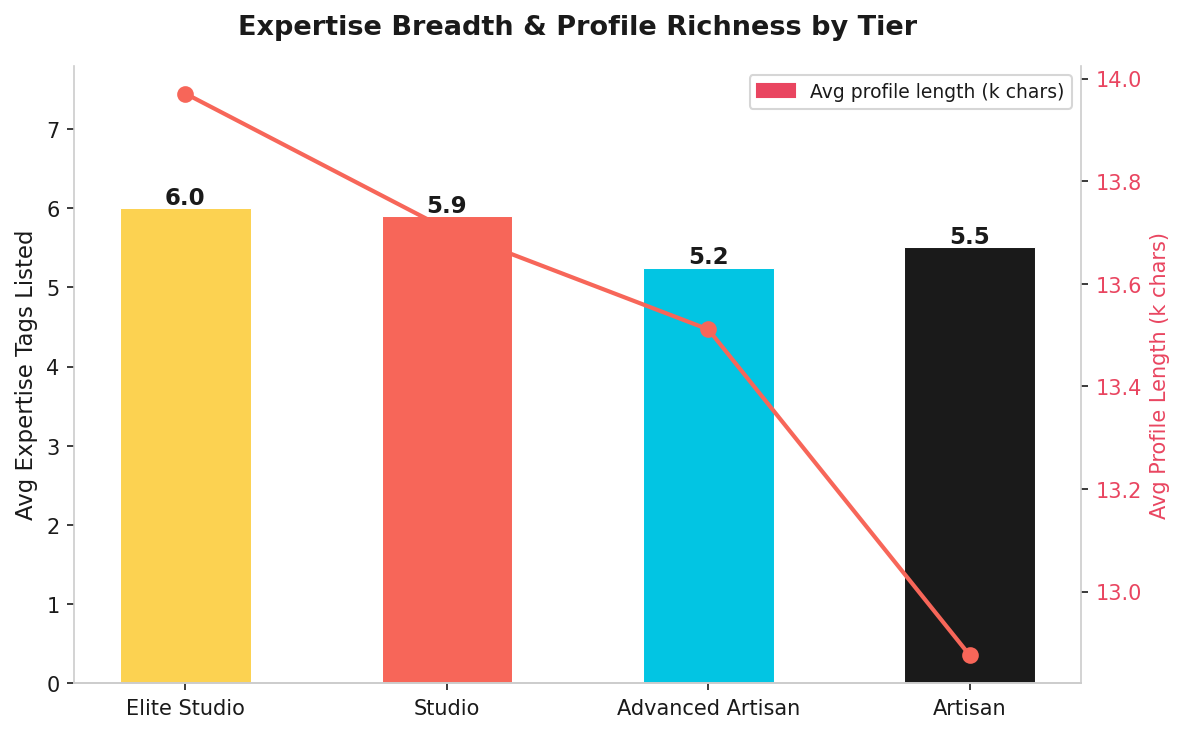
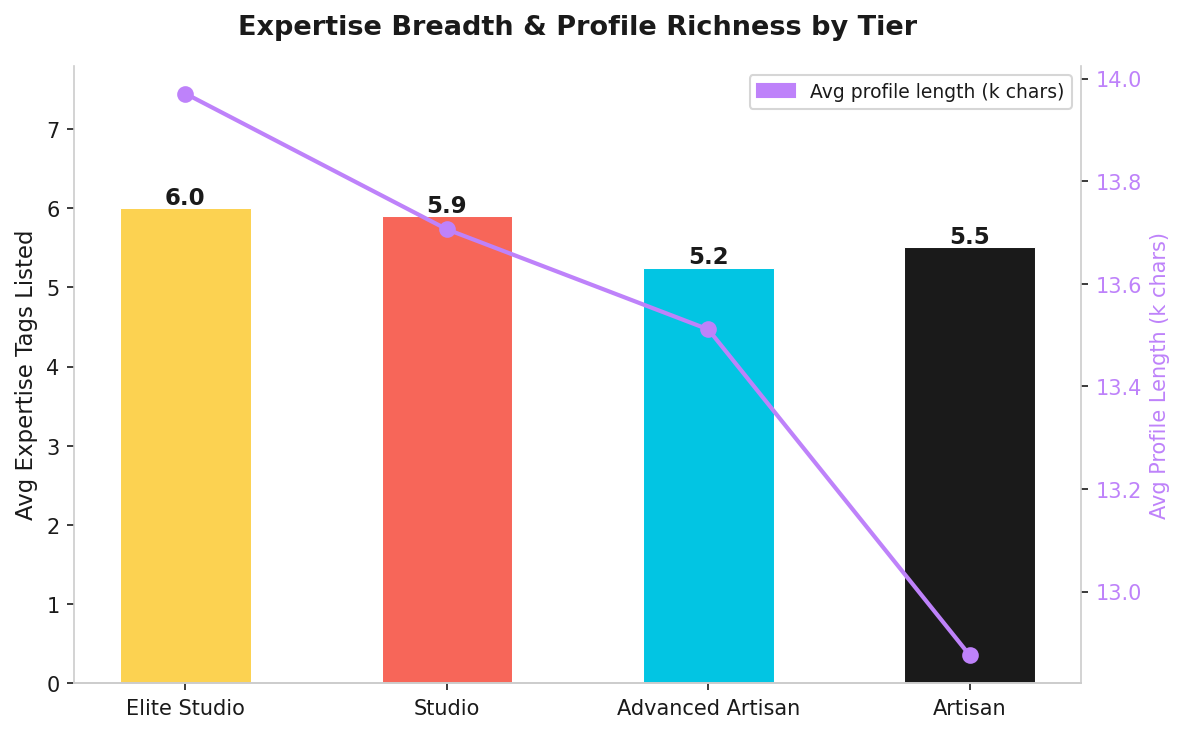
Update chart2 line color for better contrast

diff --git a/dashboard/charts.py b/dashboard/charts.py
@@ -104,10 +104,10 @@ def chart_expertise_breadth(df):
                  f"{val:.1f}", ha="center", fontsize=11, fontweight="bold")
 
     ax2 = ax1.twinx()
-    ax2.plot(x, profile.values, color=ORANGE,
+    ax2.plot(x, profile.values, color="#be82fa",
              marker="o", linewidth=2, markersize=7, label="Avg profile length (k chars)")
-    ax2.set_ylabel("Avg Profile Length (k chars)", fontsize=10, color="#e94560")
-    ax2.tick_params(axis="y", labelcolor="#e94560")
+    ax2.set_ylabel("Avg Profile Length (k chars)", fontsize=10, color="#be82fa")
+    ax2.tick_params(axis="y", labelcolor="#be82fa")
 
     ax1.set_xticks(x)
     ax1.set_xticklabels(TIER_ORDER, fontsize=10)
@@ -117,7 +117,7 @@ def chart_expertise_breadth(df):
     ax1.set_ylim(0, avg.max() * 1.3)
     ax1.spines[["top", "right"]].set_visible(False)
     ax2.spines[["top", "left"]].set_visible(False)
-    line_patch = mpatches.Patch(color="#e94560", label="Avg profile length (k chars)")
+    line_patch = mpatches.Patch(color="#be82fa", label="Avg profile length (k chars)")
     ax1.legend(handles=[line_patch], loc="upper right", fontsize=9)
     plt.tight_layout()
     plt.savefig(OUT / "chart2_expertise_breadth.png", dpi=150, bbox_inches="tight")